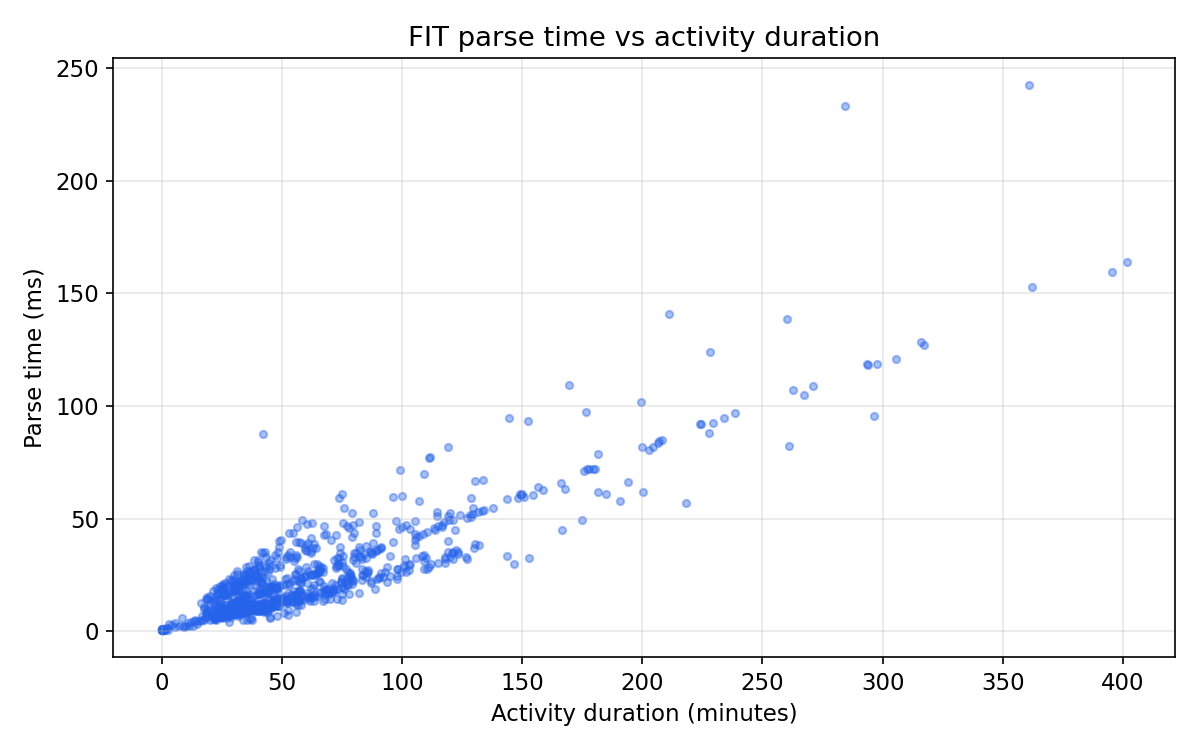
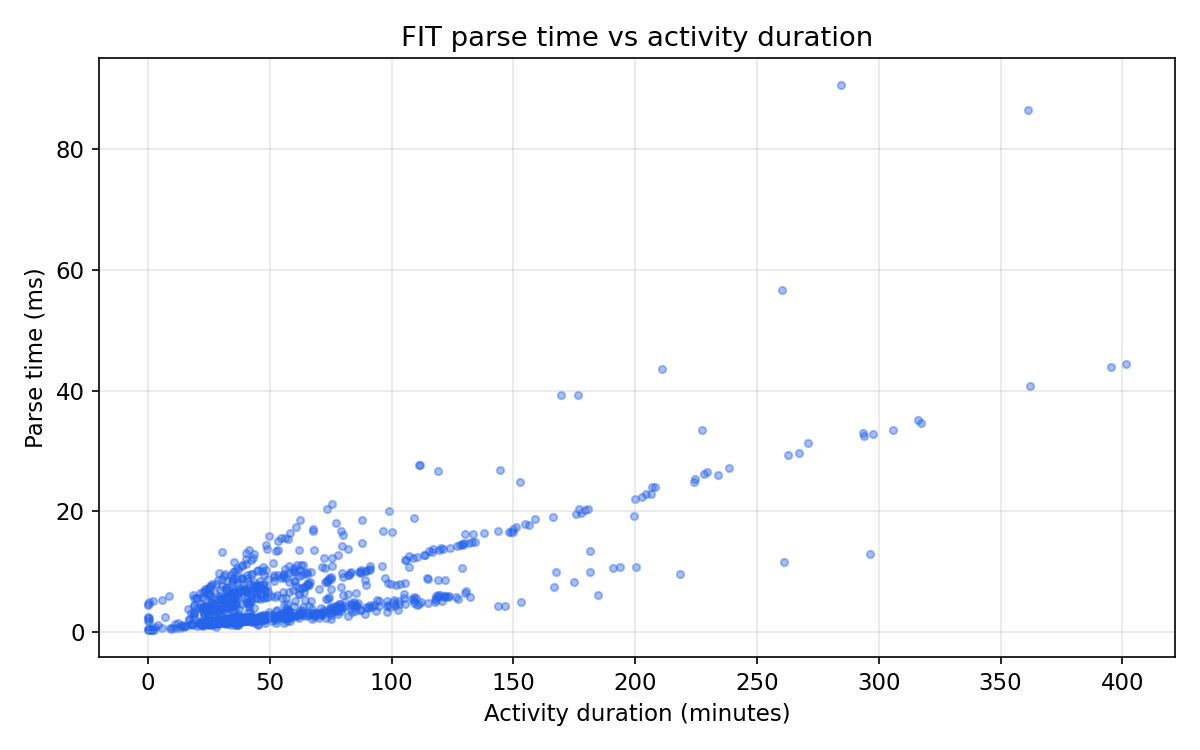
Custom parser phase 4: column selection

diff --git a/src/fit/decode.rs b/src/fit/decode.rs
@@ -418,16 +418,85 @@ fn decode_field_description(
 }
 
 // ---------------------------------------------------------------------------
+// Parse configuration
+// ---------------------------------------------------------------------------
+
+/// Controls which Record fields are decoded during a full parse.
+///
+/// When `columns` is `None`, all fields are decoded (the default).
+/// When set, only the listed columns are decoded — unwanted standard fields
+/// are skipped, and extra columns are only discovered/decoded if requested.
+pub struct ParseConfig {
+    /// Column names to decode. `None` = all columns.
+    pub columns: Option<Vec<String>>,
+}
+
+impl ParseConfig {
+    /// Build a field-number mask from column names using the profile.
+    /// Returns (standard field mask, decode extras flag).
+    fn build_field_mask(&self) -> ([bool; 256], bool) {
+        let columns = match &self.columns {
+            None => return ([true; 256], true), // decode everything
+            Some(c) if c.is_empty() => return ([true; 256], true),
+            Some(c) => c,
+        };
+
+        let mut mask = [false; 256];
+        let mut decode_extras = false;
+
+        // Always decode timestamp — needed for session splitting and laps.
+        mask[253] = true;
+
+        for col in columns {
+            match col.as_str() {
+                "timestamp" => { mask[253] = true; }
+                "heart_rate" => { mask[3] = true; }
+                "power" => { mask[7] = true; }
+                "cadence" => { mask[4] = true; }
+                "speed" => { mask[6] = true; mask[73] = true; }
+                "latitude" => { mask[0] = true; }
+                "longitude" => { mask[1] = true; }
+                "altitude" => { mask[2] = true; mask[78] = true; }
+                "temperature" => { mask[13] = true; }
+                "distance" => { mask[5] = true; }
+                "smo2" => { mask[57] = true; }
+                "core_temperature" => { mask[139] = true; }
+                // "lap" and "lap_trigger" are synthesized from Lap messages,
+                // not from Record fields — always available.
+                "lap" | "lap_trigger" => {}
+                // Anything else is an extra column or developer field.
+                _ => { decode_extras = true; }
+            }
+        }
+
+        (mask, decode_extras)
+    }
+}
+
+impl Default for ParseConfig {
+    fn default() -> Self {
+        Self { columns: None }
+    }
+}
+
+// ---------------------------------------------------------------------------
 // Full parse (records + metadata + laps + extras)
 // ---------------------------------------------------------------------------
 
-/// Fully parse a FIT file, producing the same ParseResult as the
-/// fitparser-based `process_messages`.
+/// Fully parse a FIT file with optional column selection.
 ///
 /// This is a two-pass design:
 /// - Pass 1: scan definitions to discover extra columns + collect metadata
 /// - Pass 2: decode Record fields into RecordRow + fill extra columns
+///
+/// When `config.columns` is set, only the requested fields are decoded.
 pub fn full_parse(data: &[u8]) -> Result<ParseResult, String> {
+    full_parse_with_config(data, &ParseConfig::default())
+}
+
+/// Full parse with explicit configuration.
+pub fn full_parse_with_config(data: &[u8], config: &ParseConfig) -> Result<ParseResult, String> {
+    let (field_mask, decode_extras) = config.build_field_mask();
     // ── Pass 1: metadata + extra column discovery ────────────────────────
     let mut reader = FitReader::new(data).map_err(|e| e.to_string())?;
 
@@ -453,6 +522,7 @@ pub fn full_parse(data: &[u8]) -> Result<ParseResult, String> {
             FitEvent::Definition { local, global_message_number } => {
                 if global_message_number == profile::MESG_RECORD {
                     if let Some(def) = reader.def(local) {
+                        if decode_extras {
                         // Discover extra columns from field definitions.
                         for field in &def.fields {
                             if field_to_extra.contains_key(&field.number) {
@@ -500,8 +570,6 @@ pub fn full_parse(data: &[u8]) -> Result<ParseResult, String> {
                             if let Some((name, _bt)) = dev_field_names.get(&key) {
                                 if !is_handled_field(name) {
                                     if let Some(col) = column_for_developer_field(name) {
-                                        // Use the base type from the dev field description if available,
-                                        // otherwise default to float64.
                                         let dtype = DataType::Float64;
                                         match extra_types.get_mut(&col) {
                                             Some(existing) => *existing = promote_type(existing, &dtype),
@@ -511,6 +579,7 @@ pub fn full_parse(data: &[u8]) -> Result<ParseResult, String> {
                                 }
                             }
                         }
+                        } // if decode_extras
                     }
                 }
             }
@@ -678,98 +747,87 @@ pub fn full_parse(data: &[u8]) -> Result<ParseResult, String> {
 
         let be = def.big_endian;
 
-        // Decode standard record fields.
+        // Decode record fields, skipping unwanted ones based on field_mask.
         for (num, data) in FieldIter::new(def, field_bytes) {
+            if !field_mask[num as usize] && !decode_extras {
+                continue; // skip both standard and extra — nothing to do
+            }
             match num {
-                0 => {
-                    // position_lat (sint32 → degrees)
+                0 if field_mask[0] => {
                     if let Some(v) = read_i32(data, be) {
                         row.latitude = Some(v as f64 * SEMICIRCLE_TO_DEGREES);
                     }
                 }
-                1 => {
-                    // position_long (sint32 → degrees)
+                1 if field_mask[1] => {
                     if let Some(v) = read_i32(data, be) {
                         row.longitude = Some(v as f64 * SEMICIRCLE_TO_DEGREES);
                     }
                 }
-                2 => {
-                    // altitude (uint16, scale 5, offset 500)
+                2 if field_mask[2] => {
                     if let Some(v) = read_u16(data, be) {
                         row.altitude = Some(v as f32 / 5.0 - 500.0);
                     }
                 }
-                3 => {
-                    // heart_rate (uint8)
+                3 if field_mask[3] => {
                     if let Some(v) = read_u8_valid(data) {
                         row.heart_rate = Some(v as i16);
                     }
                 }
-                4 => {
-                    // cadence (uint8)
+                4 if field_mask[4] => {
                     if let Some(v) = read_u8_valid(data) {
                         row.cadence = Some(v as i16);
                     }
                 }
-                5 => {
-                    // distance (uint32, scale 100)
+                5 if field_mask[5] => {
                     if let Some(v) = read_u32(data, be) {
                         row.distance = Some(v as f64 / 100.0);
                     }
                 }
-                6 => {
-                    // speed (uint16, scale 1000)
+                6 if field_mask[6] => {
                     if row.speed.is_none() {
                         if let Some(v) = read_u16(data, be) {
                             row.speed = Some(v as f32 / 1000.0);
                         }
                     }
                 }
-                7 => {
-                    // power (uint16)
+                7 if field_mask[7] => {
                     if let Some(v) = read_u16(data, be) {
                         row.power = Some(v as i16);
                     }
                 }
-                13 => {
-                    // temperature (sint8)
-                    if data.len() >= 1 {
+                13 if field_mask[13] => {
+                    if !data.is_empty() {
                         let v = data[0] as i8;
                         if v != 0x7F { row.temperature = Some(v); }
                     }
                 }
-                73 => {
-                    // enhanced_speed (uint32, scale 1000) — preferred over field 6
+                73 if field_mask[73] => {
                     if let Some(v) = read_u32(data, be) {
                         row.speed = Some(v as f32 / 1000.0);
                     }
                 }
-                78 => {
-                    // enhanced_altitude (uint32, scale 5, offset 500) — preferred over field 2
+                78 if field_mask[78] => {
                     if let Some(v) = read_u32(data, be) {
                         row.altitude = Some(v as f32 / 5.0 - 500.0);
                     }
                 }
-                57 => {
-                    // saturated_hemoglobin_percent (uint16, scale 10) → smo2
+                57 if field_mask[57] => {
                     if let Some(v) = read_u16(data, be) {
                         row.smo2 = Some(v as f32 / 10.0);
                     }
                 }
-                139 => {
-                    // core_temperature (uint16, scale 100) — native field
+                139 if field_mask[139] => {
                     if let Some(v) = read_u16(data, be) {
                         row.core_temperature = Some(v as f32 / 100.0);
                     }
                 }
-                _ => {
-                    // Extra columns — use base type from definition (raw byte).
+                _ if decode_extras => {
+                    // Extra columns — only when requested.
                     if let Some(&col_idx) = field_to_col.get(&num) {
-                        // Get the raw base type from the definition's field layout.
                         let raw_bt = def.fields.iter()
                             .find(|f| f.number == num)
                             .map(|f| f.base_type)
-                            .unwrap_or(0x02); // fallback to uint8
+                            .unwrap_or(0x02);
                         let (scale, offset) = profile::FieldDef::lookup(profile::RECORD_FIELDS, num)
                             .map(|pf| (pf.scale, pf.offset))
                             .unwrap_or((1.0, 0.0));
@@ -778,16 +836,20 @@ pub fn full_parse(data: &[u8]) -> Result<ParseResult, String> {
                         );
                     }
                 }
+                _ => {}
             }
         }
 
-        // Developer fields — special-cased ones go into RecordRow,
-        // others go into extra columns.
+        // Developer fields — special-cased ones (Power, Cadence, core_temp,
+        // smo2) always decoded into RecordRow for merge logic. Extras only
+        // when requested.
         decode_record_dev_fields(def, dev_field_bytes, &dev_field_names, &mut row);
-        decode_record_dev_extras(
-            def, dev_field_bytes, &dev_field_names,
-            &norm_to_col, &mut extra_data, row_idx,
-        );
+        if decode_extras {
+            decode_record_dev_extras(
+                def, dev_field_bytes, &dev_field_names,
+                &norm_to_col, &mut extra_data, row_idx,
+            );
+        }
 
         records.push(row);
         row_idx += 1;

diff --git a/src/pyroparse/_activity.py b/src/pyroparse/_activity.py
@@ -14,13 +14,39 @@ from pyroparse._schema import select_columns
 from pyroparse._types import PathSource, Source
 
 
-def _call_parser(source: Source) -> dict:
+def _call_parser(source: Source, columns: list[str] | None = None) -> dict:
     """Route to the path-based or bytes-based Rust parser."""
     if isinstance(source, (str, os.PathLike)):
-        return _parse_fit(str(os.fspath(source)))
+        return _parse_fit(str(os.fspath(source)), columns)
     if isinstance(source, bytes):
-        return _parse_fit_bytes(source)
-    return _parse_fit_bytes(source.read())
+        return _parse_fit_bytes(source, columns)
+    return _parse_fit_bytes(source.read(), columns)
+
+
+def _build_rust_column_hint(
+    columns: list[str] | str | None,
+    extra_columns: list[str] | None,
+) -> list[str] | None:
+    """Translate Python column selection into a Rust-side hint.
+
+    Returns None (decode everything) when:
+    - columns is None and extra_columns is None (default: standard columns)
+    - columns is "all" (all columns including extras)
+
+    Returns a list when a specific column set is requested, so Rust can
+    skip decoding unwanted fields.
+    """
+    if columns == "all":
+        return None  # Rust decodes everything
+    if columns is None and extra_columns is None:
+        return None  # standard columns — Rust decodes all, Python filters
+    if columns is None and extra_columns is not None:
+        # Standard columns + specific extras — tell Rust about the extras.
+        from pyroparse._schema import STANDARD_COLUMNS
+        return list(STANDARD_COLUMNS) + list(extra_columns)
+    if isinstance(columns, list):
+        return columns
+    return None
 
 
 def _filter_device_columns(meta: ActivityMetadata, data: pa.Table) -> None:
@@ -75,7 +101,10 @@ class Activity:
         missing: str = "raise",
         metadata: dict | None = None,
     ) -> Activity:
-        raw = _call_parser(source)
+        # Build a Rust-side column hint to skip decoding unwanted fields.
+        # None = decode everything, list = decode only these columns.
+        rust_columns = _build_rust_column_hint(columns, extra_columns)
+        raw = _call_parser(source, rust_columns)
         activities = raw["activities"]
         if len(activities) > 1:
             raise MultipleActivitiesError(len(activities))

diff --git a/src/lib.rs b/src/lib.rs
@@ -1756,22 +1756,25 @@ fn build_scan_result_dict(py: Python<'_>, scan: &ScanResult) -> PyResult<PyObjec
 // Python-exposed functions
 // ═══════════════════════════════════════════════════════════════════════════
 
-fn do_parse(py: Python<'_>, data: &[u8]) -> PyResult<PyObject> {
-    let parsed = fit::decode::full_parse(data)
+fn do_parse(py: Python<'_>, data: &[u8], columns: Option<Vec<String>>) -> PyResult<PyObject> {
+    let config = fit::decode::ParseConfig { columns };
+    let parsed = fit::decode::full_parse_with_config(data, &config)
         .map_err(pyo3::exceptions::PyValueError::new_err)?;
     build_parse_result_dict(py, parsed)
 }
 
 #[pyfunction]
-fn parse_fit(py: Python<'_>, path: &str) -> PyResult<PyObject> {
+#[pyo3(signature = (path, columns=None))]
+fn parse_fit(py: Python<'_>, path: &str, columns: Option<Vec<String>>) -> PyResult<PyObject> {
     let data = std::fs::read(path)
         .map_err(|e| pyo3::exceptions::PyIOError::new_err(e.to_string()))?;
-    do_parse(py, &data)
+    do_parse(py, &data, columns)
 }
 
 #[pyfunction]
-fn parse_fit_bytes(py: Python<'_>, data: &[u8]) -> PyResult<PyObject> {
-    do_parse(py, data)
+#[pyo3(signature = (data, columns=None))]
+fn parse_fit_bytes(py: Python<'_>, data: &[u8], columns: Option<Vec<String>>) -> PyResult<PyObject> {
+    do_parse(py, data, columns)
 }
 
 /// Metadata-only scan from file path — skips Record data.

diff --git a/BENCHMARK.md b/BENCHMARK.md
@@ -30,18 +30,18 @@ Each operation is measured once per file (no repeated iterations) across
 
 | Operation | median | p5 | p95 | max |
 |---|--:|--:|--:|--:|
-| **FIT full parse** | **17 ms** | 5.8 ms | 67 ms | 242 ms |
-| **FIT metadata scan** | **0.59 ms** | 0.22 ms | 2.1 ms | 4.9 ms |
-| **Parquet full load** | **1.3 ms** | 0.87 ms | 2.4 ms | 4.5 ms |
-| **Parquet metadata scan** | **0.18 ms** | 0.15 ms | 0.25 ms | 1.3 ms |
-| **Parquet write** | **1.7 ms** | 0.92 ms | 4.2 ms | 11 ms |
+| **FIT full parse** | **4.3 ms** | 1.4 ms | 19 ms | 91 ms |
+| **FIT metadata scan** | **0.90 ms** | 0.30 ms | 3.4 ms | 11 ms |
+| **Parquet full load** | **0.96 ms** | 0.70 ms | 1.7 ms | 8.3 ms |
+| **Parquet metadata scan** | **0.16 ms** | 0.13 ms | 0.22 ms | 1.1 ms |
+| **Parquet write** | **1.5 ms** | 0.80 ms | 4.0 ms | 17 ms |
 
 ### Parquet vs FIT speedup
 
 | Operation | median speedup |
 |---|--:|
-| Full load | **14x** |
-| Metadata scan | **3x** |
+| Full load | **4x** |
+| Metadata scan | **6x** |
 
 ## FIT parse time vs file size
 
@@ -73,8 +73,8 @@ Loading only `["timestamp", "power"]` instead of all 12 columns:
 
 | Load mode | FIT median | Parquet median |
 |---|--:|--:|
-| All columns | 16 ms | 1.3 ms |
-| Power only | 16 ms | 1.0 ms |
+| All columns | 4.7 ms | 0.96 ms |
+| Power only | 4.5 ms | 0.69 ms |
 
 FIT parse time is nearly identical — the Rust decoder must read the full
 binary stream regardless, and column selection only drops unwanted columns
